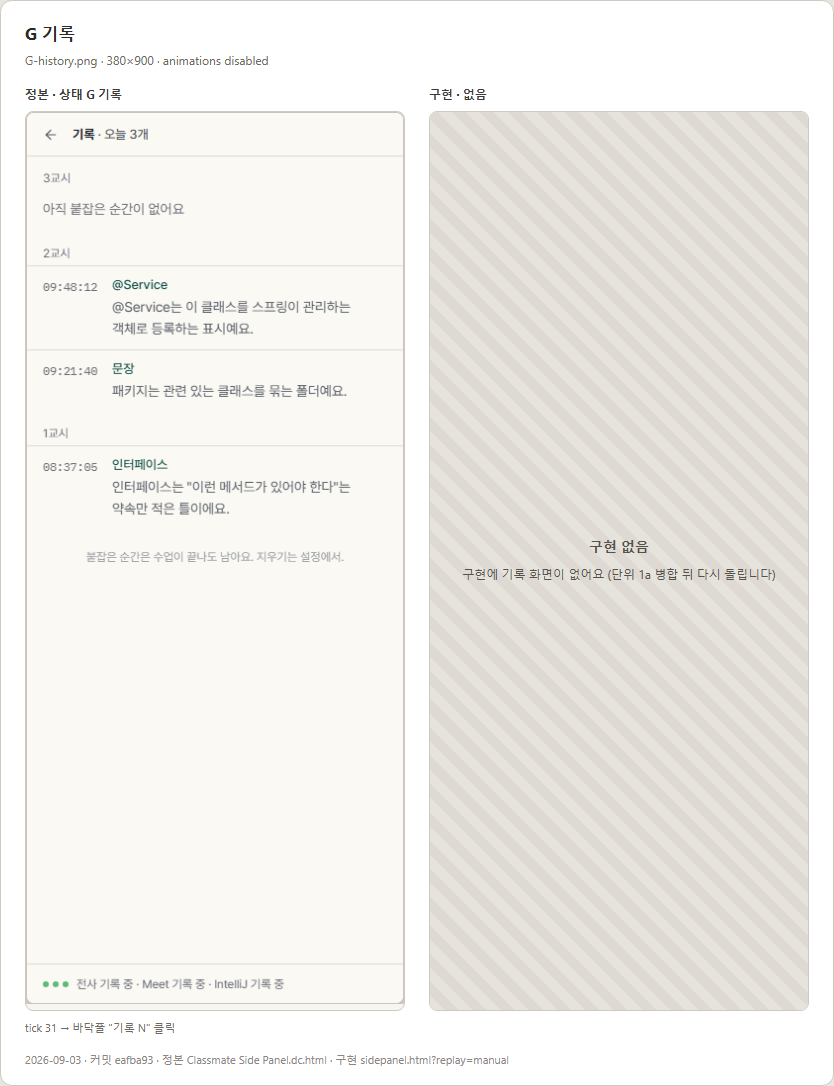
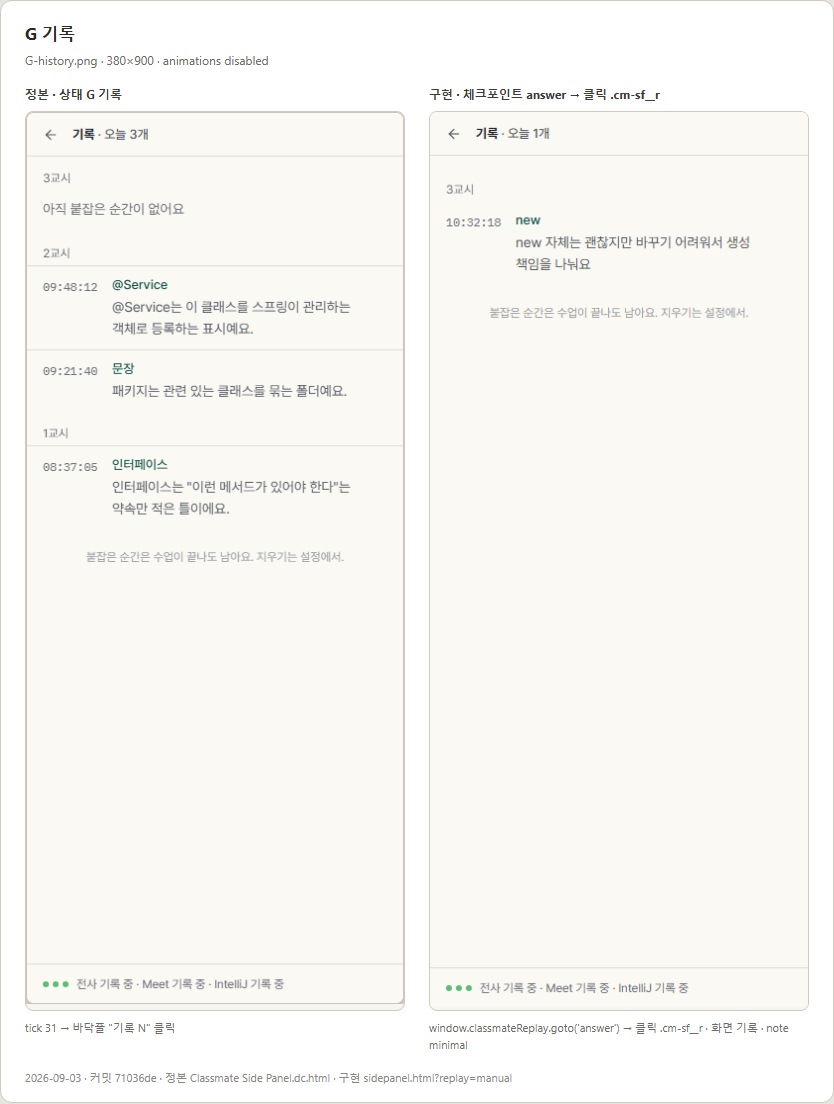
feat(compare): 기록(G)과 전사 멈춤(H-1)을 실제 화면으로 캡처하고 first-class 의 병합 전 문단을 뺀다
- STATES 에 then(클릭 · classmateConnector) 을 두어 G 는 answer → 바닥줄 카운트 클릭,
  H-1 은 listening → connector.status 손잡이로 세운다(정본과 같은 입구·같은 Tweaks)
- summary.json 에 then 을 남기고 캡션에 호박색 바닥줄 여부를 적는다 · 비교 이미지 9장 재생성
- docs/first-class.md: dev zip key=있음 실측으로 "단위 2 병합 전" 대기 문단을 갈아 끼운다

diff --git a/docs/screenshots/compare/README.md b/docs/screenshots/compare/README.md
@@ -33,9 +33,9 @@ pnpm --filter @classmate/browser-extension compare:design
 | D 문장을 붙잡음 | tick 8 → 마지막 문장 클릭 | `goto('sentence')` | `D-sentence.png` | 차이 있음(의도) |
 | E 접힌 메모 | tick 31 → `new` 클릭 → tick 2 → tick 18 | `goto('folded')` | `E-folded.png` | 일치 |
 | F 자세히 | tick 31 → `new` 클릭 → tick 2 → `자세히 보기 ▸` | `goto('detail')` | `F-detail.png` | 차이 있음(의도) |
-| G 기록 | tick 31 → 바닥줄 `기록 N` 클릭 | 없음 | `G-history.png` | 구현 없음 |
+| G 기록 | tick 31 → 바닥줄 `기록 N` 클릭 | `goto('answer')` → 바닥줄 `.cm-sf__r` 클릭 | `G-history.png` | 차이 있음(의도) |
 | H 튜터 멈춤 | props `aiDown=true` → tick 31 → `new` 클릭 | `goto('waiting')` | `H-tutor-paused.png` | 일치 |
-| H-1 전사 멈춤 | tick 31 → props `tiroDown=true` → tick 1 | `advanceTo('2026-09-02T10:31:35+09:00')` | `H1-tiro-paused.png` | 대체 |
+| H-1 전사 멈춤 | tick 31 → props `tiroDown=true` → tick 1 | `goto('listening')` → `classmateConnector('tiro-share','paused')` | `H1-tiro-paused.png` | 일치 |
 
 - **일치** — 화면 구조·문구·상태 표시가 같은 것으로 읽힙니다(아래 공통 차이는 뺍니다).
 - **차이 있음(의도)** — 아래 목록에 적은 이유로 다릅니다. 고칠 것이 아닙니다.
@@ -75,13 +75,12 @@ pnpm --filter @classmate/browser-extension compare:design
     만들 때 **제공자 선택과 개인정보 문구는 정본에 근거가 없습니다**(`docs/design-map.md` §6 마지막 항목).
     정본 인용으로 삼지 말고 새로 쓴 문구임을 밝혀야 합니다.
 
-## 아직 못 맞춘 것
+## G · H-1 을 세우는 방법 (2라운드 병합 뒤)
 
-- **G 기록** — 구현에 기록 화면이 없습니다. 화면이 생기면 `compare-design.mjs` 의 `STATES` 에서 `G` 의
-  `impl` 을 `{ kind: 'none', … }` 에서 `{ kind: 'checkpoint', checkpoint: '<이름>' }` 으로 바꾸면 됩니다.
-- **H-1 전사 멈춤** — fixture `session-events.jsonl` 의 `connector.status` 는 `connected` 세 줄뿐이고,
-  `window.classmateReplay` 손잡이에 커넥터 사건을 넣는 방법이 없습니다. 그래서 fixture 첫 사건 시각
-  (`2026-09-02T10:31:35+09:00`)으로 시계를 세워 대신했습니다. 그 시각에는 전사가 아직 하나도 오지 않아
-  **"아직 들은 문장이 없어요" 가 보이고 바닥줄은 정상**입니다(호박색 "다시 연결" 이 아닙니다).
-  손잡이에 커넥터 사건 주입이나 전용 체크포인트가 생기면 `STATES` 의 `H1.impl` 을 그쪽으로 바꿉니다.
-  스크립트는 실제로 호박색 바닥줄(`.cm-sf--paused`)이 떴는지 확인해 `summary.json` 과 이미지 캡션에 적습니다.
+- **G 기록** — 기록 화면은 스토어 체크포인트가 아니라 `PanelApp` 이 얹는 화면이라, `goto('answer')` 뒤에
+  바닥줄의 카운트(`.cm-sf__r` · 정본 `dc.html:398` 의 `onCount` 와 같은 입구)를 눌러 들어갑니다.
+  정본의 기록은 시연 컬럼이 만든 여러 순간을 보이지만 구현은 fixture 의 붙잡은 순간 1개(3교시 묶음)만 보입니다 — 의도한 차이입니다.
+- **H-1 전사 멈춤** — fixture 의 `connector.status` 는 `connected` 세 줄뿐이라 `?replay=manual` 에서만 붙는 손잡이
+  `window.classmateConnector('tiro-share', 'paused')` 로 계약 `connector.status` 한 줄을 넣습니다(정본도 이 상태를
+  Tweaks 의 `tiroDown` 으로 켭니다). 스크립트는 호박색 바닥줄(`.cm-sf--paused`)이 실제로 떴는지 기다렸다가 찍고,
+  `summary.json` 의 `facts.footerPaused` 와 이미지 캡션에 적습니다.

diff --git a/docs/first-class.md b/docs/first-class.md
@@ -117,10 +117,8 @@ C:\CorthexClassmate\
 이 ID 는 `installer/windows/extension-key.json` 의 `id` 와 **같아야 합니다.**
 매니페스트의 `key` 가 id 를 고정하기 때문입니다. 폴더를 옮겨도 이 ID 는 바뀌지 않습니다.
 
-> **대기 · 단위 2 병합 전에는 다르게 나옵니다.** 지금 브랜치의 `wxt.config.ts` 는 아직
-> `CLASSMATE_EXTENSION_KEY` 를 매니페스트에 옮기지 않아서, dev zip 에 `key` 가 없고
-> Chrome 이 폴더 경로로 id 를 짓습니다. 그때는 화면에 보이는 ID 를 그대로 §3-3 에 쓰고,
-> 단위 2 가 병합된 뒤 zip 을 다시 묶어 고정 id 로 갈아 끼웁니다.
+`node installer/windows/package-extension.mjs` 가 dev zip 에 대해 `key=있음` 을 찍으면 매니페스트에 키가
+들어간 것입니다(2라운드 병합 뒤 실측: dev `key=있음` · store `key=없음`).
 
 ### 3-3. 로컬 도우미 등록 — **대기 (사람이 확인한 뒤 실행)**
 
